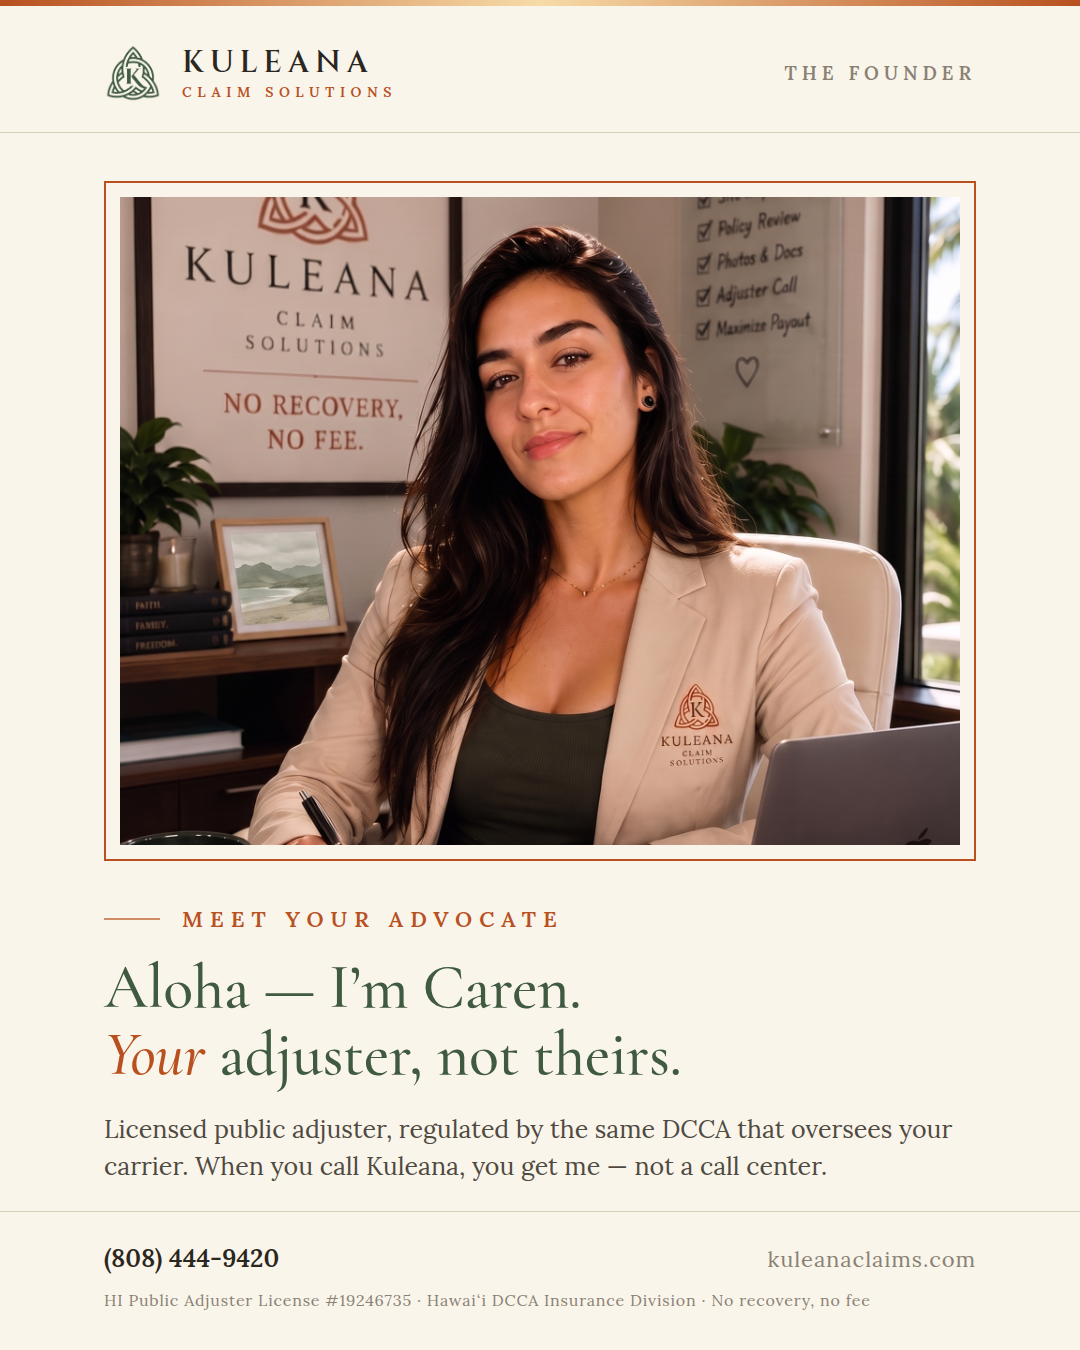
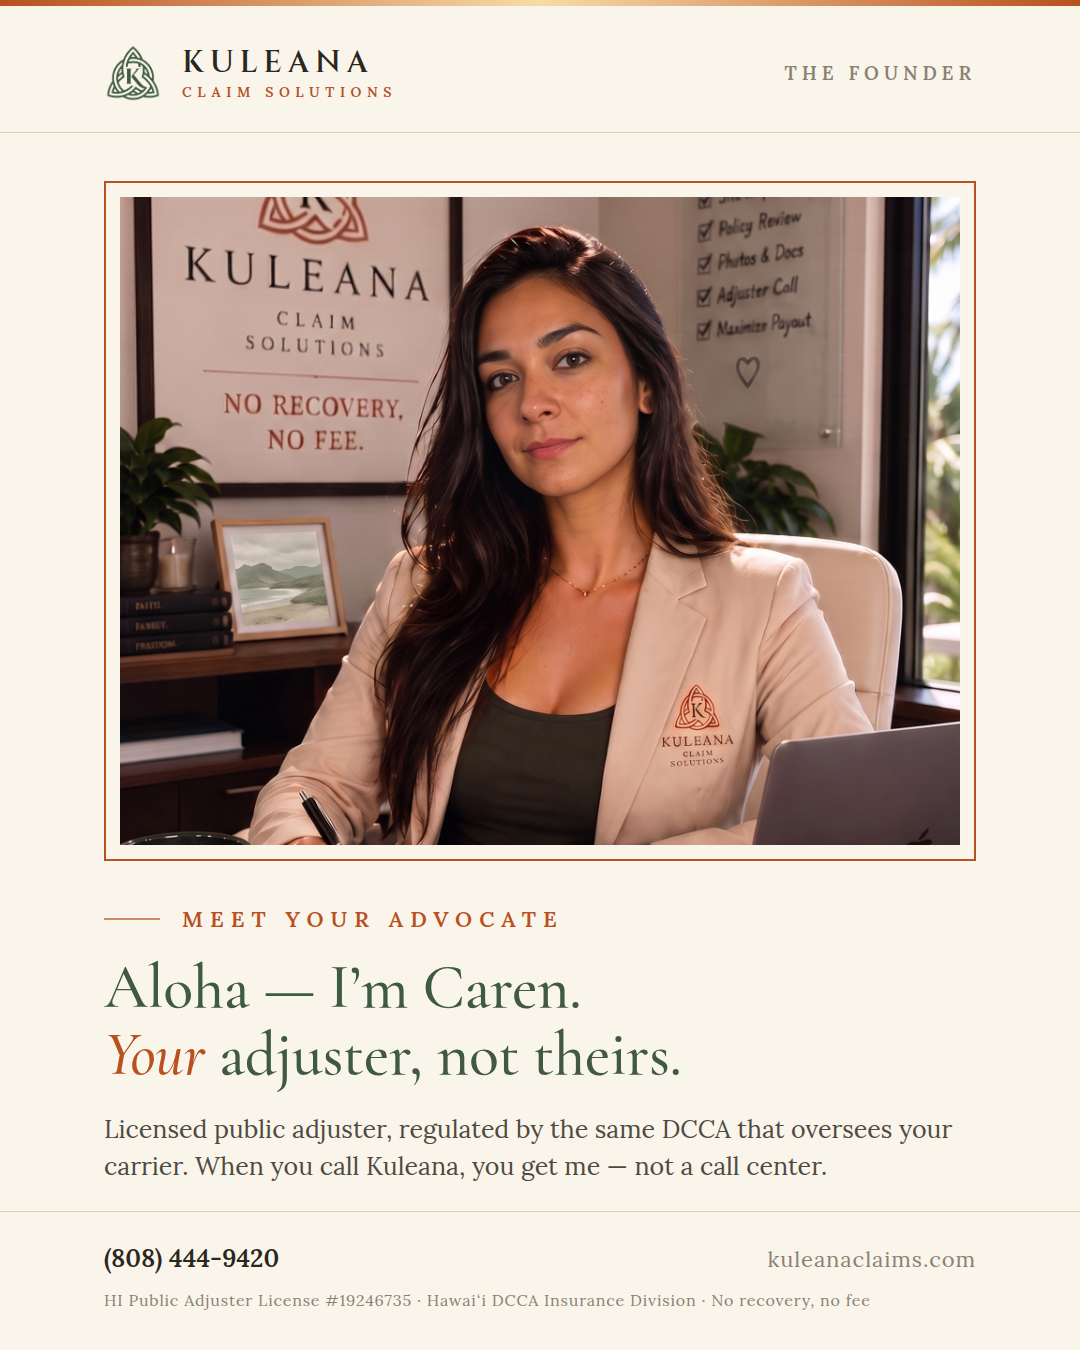
Use Caren's likeness on both founder portraits
Face updated on the desk (post 23) and on-site (post 24) portraits via
her trained identity model; on-site expression redone to stay composed
against the storm backdrop. 2K masters stored in instagram/img.

Claude-Session: https://claude.ai/code/session_012ermQFeXKetnBLvQfiukPr

diff --git a/instagram/kuleana-instagram-posts.html b/instagram/kuleana-instagram-posts.html
@@ -962,7 +962,7 @@ POST 24 · Photo post — on-site after the storm (brand portrait)
     <div class="head-right">On Site</div>
   </header>
   <div class="photo-frame" style="height: 680px;">
-    <img src="img/library-founder-site.jpg" alt="Caren Almuina on site at a storm-damaged Hawaii home" width="948" height="648" style="object-position: 50% 26%;" />
+    <img src="img/library-founder-site-2k.png" alt="Caren Almuina on site at a storm-damaged Hawaii home" width="948" height="648" style="object-position: 50% 26%;" />
   </div>
   <div class="photo-body">
     <div class="eyebrow">After the Storm</div>
